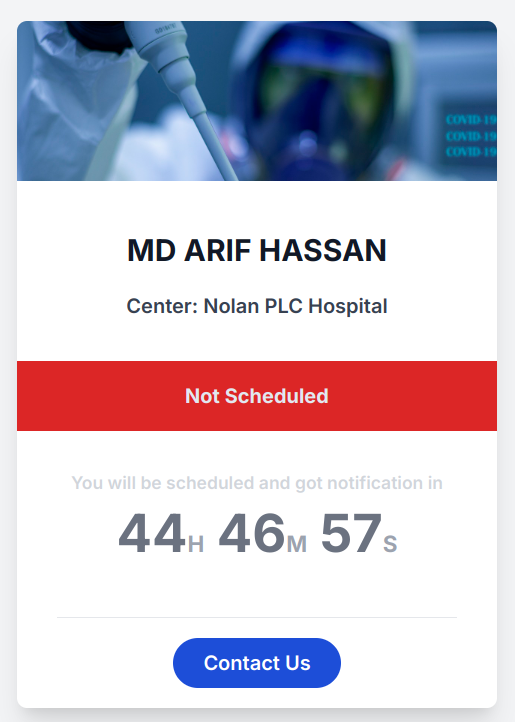
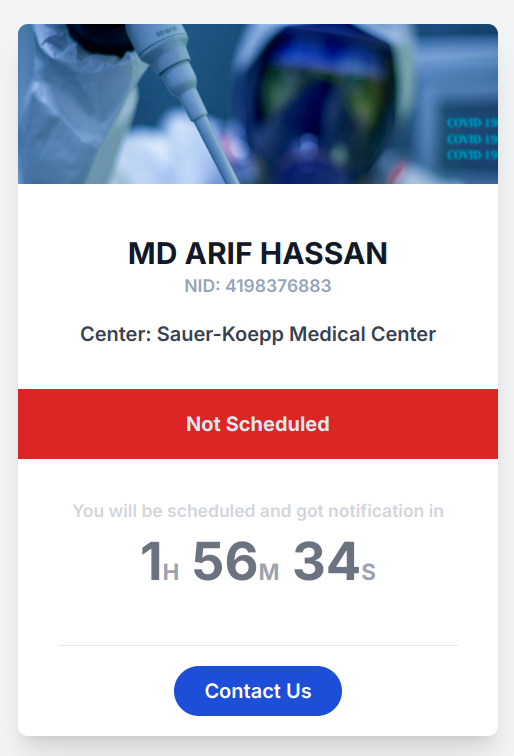
fixed weekends schedules and center limits options

diff --git a/resources/views/home.blade.php b/resources/views/home.blade.php
@@ -11,10 +11,12 @@
         </div>
 
         <div class="text-center mt-2 py-8">
-            <h2 class="font-bold mb-4 text-2xl">{{auth()->user()->name}}</h2>
+            <h2 class="font-bold text-2xl capitalize">{{auth()->user()->name}}</h2>
+            <span class="block font-semibold text-slate-400 text-sm mb-4">NID: {{auth()->user()->nid}}</span>
 
             @if (auth()->user()->status !== \App\Enums\UserStatus::VACCINATED)
                 <h5 class="text-gray-700 font-semibold">Center: {{auth()->user()->VaccineCenter?->name}}</h5>
+
             @endif
 
             <p class="text-slate-200 my-8 py-4 font-bold capitalize {{ auth()->user()->status === \App\Enums\UserStatus::NOT_SCHEDULED ? 'bg-red-600' :
@@ -29,7 +31,7 @@
 
             @elseif (auth()->user()->status === \App\Enums\UserStatus::SCHEDULED)
                 <div class="px-4 font-semibold">Your vaccination is scheduled at <span
-                        class="font-bold">{{auth()->user()->scheduled_date}} </span>. Please
+                        class="font-bold">{{auth()->user()->scheduled_date->toDateString()}}. </span>Please
                     arrive at the center by <span class="font-bold">9:00 AM.</span></div>
 
             @elseif (auth()->user()->status === \App\Enums\UserStatus::VACCINATED)
@@ -39,24 +41,22 @@
         </div>
 
         <div class="p-4 border-t mx-8 mt-2">
-            @if(auth()->user()->status === \App\Enums\UserStatus::SCHEDULED)
-                <button
-                    class=" block mx-auto rounded-full bg-blue-700 hover:shadow-lg font-semibold text-white px-6 py-2">Confim
-                    Vaccination</button>
-            @else
-                <button
-                    class=" block mx-auto rounded-full bg-blue-700 hover:shadow-lg font-semibold text-white px-6 py-2">Contact
-                    Us</button>
-            @endif
-        </div </div>
+            <button
+                class=" block mx-auto rounded-full bg-blue-700 hover:shadow-lg font-semibold text-white px-6 py-2">Contact
+                Us</button>
+        </div>
 @else
-    <div class="p-4 border-t mx-8 text-center">
-        <h3
-            class="w-full text-cente block mx-auto rounded-full bg-blue-700 hover:shadow-lg font-semibold text-white px-6 py-4">
-            Vaccine
-            Registration Center
-        </h3>
+    <div class="text-center mt-40">
+        <h1 class="text-4xl font-bold text-gray-800">Welcome to Our Vaccination Portal</h1>
+        <p class="text-gray-600 mt-4">Manage your vaccination schedule, track appointments, and stay updated.</p>
+        <div class="mt-6">
+            <a href="{{ route('login') }}"
+                class="px-6 py-3 bg-blue-500 text-white rounded shadow hover:bg-blue-600">Login</a>
+            <a href="{{ route('registration') }}"
+                class="ml-4 px-6 py-3 bg-gray-300 text-gray-800 rounded shadow hover:bg-gray-400">Register</a>
+        </div>
     </div>
+
 @endif
     <script>
         document.addEventListener('DOMContentLoaded', function () {

diff --git a/app/Jobs/ProcessVaccinationSchedule.php b/app/Jobs/ProcessVaccinationSchedule.php
@@ -51,18 +51,44 @@ class ProcessVaccinationSchedule implements ShouldQueue
                 ->get();
 
             foreach ($users as $user) {
-                $scheduledDate = Carbon::now()->addDays(1)->toDateString();
+                $scheduledDate = $this->findNextAvailableDate($center);
 
                 $user->update([
                     'status' => UserStatus::SCHEDULED,
                     'scheduled_date' => $scheduledDate,
                 ]);
 
-                Log::info("User scheduled: {$user->email}, scheduled_date: {$user->scheduled_date}");
+                Log::info("User scheduled: {$user->email}, scheduled_date: {$user->scheduled_date->toDateString()}");
 
                 // Dispatch the email job
-                SendVaccinationEmail::dispatch($user);
+                SendVaccinationEmail::dispatch($user)->delay(Carbon::now()->addSeconds(5));
             }
         });
+    }
+
+    protected function findNextAvailableDate(VaccineCenter $center): string
+    {
+        $date = Carbon::now()->addDays(); // Start from tomorrow
+
+        while (true) {
+            // is weekends
+            if ($date->isWeekend()) {
+                $date->addDay();
+
+                continue;
+            }
+
+            // Check if there are already enough users scheduled for the current day
+            $usersScheduled = User::where('vaccine_center_id', $center->id)
+                ->whereDate('scheduled_date', $date)
+                ->count();
+
+            if ($usersScheduled < $center->daily_capacity) {
+                return $date->toDateString();
+            }
+
+            $date->addDay(); // Move to the next day
+        }
+
     }
 }

diff --git a/app/Filament/Resources/VaccineCenterResource.php b/app/Filament/Resources/VaccineCenterResource.php
@@ -3,15 +3,11 @@
 namespace App\Filament\Resources;
 
 use App\Filament\Resources\VaccineCenterResource\Pages;
-use App\Filament\Resources\VaccineCenterResource\RelationManagers;
 use App\Models\VaccineCenter;
-use Filament\Forms;
 use Filament\Forms\Form;
 use Filament\Resources\Resource;
 use Filament\Tables;
 use Filament\Tables\Table;
-use Illuminate\Database\Eloquent\Builder;
-use Illuminate\Database\Eloquent\SoftDeletingScope;
 
 class VaccineCenterResource extends Resource
 {
@@ -47,8 +43,8 @@ class VaccineCenterResource extends Resource
                     Tables\Actions\DeleteBulkAction::make(),
                 ]),
             ])->emptyStateActions([
-                    Tables\Actions\CreateAction::make(),
-                ])
+                Tables\Actions\CreateAction::make(),
+            ])
             ->emptyStateActions([
                 Tables\Actions\CreateAction::make(),
             ]);

diff --git a/resources/views/auth/registration.blade.php b/resources/views/auth/registration.blade.php
@@ -64,9 +64,9 @@
             password</label>
     </div>
     <div class="relative z-0 w-full mb-5 group">
-        <select class="p-4 pl-0 bg-gray-100 border border-gray-200 rounded-sm w-full" name="vaccine_center"
-            id="vaccine_center">
-            <option class="text-gray-500 pr-2" value="">Select Vaccine Center</option>
+        <select class="text-gray-500 text-md p-4 pl-0 bg-gray-100 border-b-2 border-gray-300 rounded-sm w-full"
+            name="vaccine_center" id="vaccine_center">
+            <option class=" pr-2" value="">Select Vaccine Center</option>
             @foreach ($vaccine_centers as $vaccine_center)
                 <option class="text-gray-500 py-2 border-b border-gray-200 " value="{{ $vaccine_center->id }}">
                     {{ $vaccine_center->name }}

diff --git a/app/Http/Controllers/UserVaccinationController.php b/app/Http/Controllers/UserVaccinationController.php
@@ -1,0 +1,26 @@
+<?php
+
+namespace App\Http\Controllers;
+
+use App\Enums\UserStatus;
+use App\Models\User;
+
+class UserVaccinationController extends Controller
+{
+    public function confirm(User $user)
+    {
+        if ($user->status === UserStatus::SCHEDULED) {
+            $user->update(['status' => UserStatus::VACCINATED]);
+
+            return response()->json([
+                'success' => true,
+                'message' => 'Vaccination confirmed successfully.',
+            ]);
+        }
+
+        return response()->json([
+            'success' => false,
+            'message' => 'User is not scheduled for vaccination.',
+        ]);
+    }
+}

diff --git a/routes/web.php b/routes/web.php
@@ -3,6 +3,7 @@
 use App\Http\Controllers\Auth\LoginController;
 use App\Http\Controllers\Auth\RegistrationController;
 use App\Http\Controllers\HomeController;
+use App\Http\Controllers\UserVaccinationController;
 use Illuminate\Support\Facades\Route;
 
 Route::middleware(['auth'])->group(function () {
@@ -20,3 +21,5 @@ Route::post('/registration', [RegistrationController::class, 'store']);
 Route::get('/logout', [LoginController::class, 'logout'])->name('logout');
 
 Route::get('/', [HomeController::class, 'index'])->name('home');
+
+Route::post('/vaccination/confim/{user}', [UserVaccinationController::class, 'confirm'])->name('vaccination.confirm');

diff --git a/resources/views/components/header.blade.php b/resources/views/components/header.blade.php
@@ -24,7 +24,7 @@
                 <ul
                     class="flex flex-col p-4 md:p-0 mt-4 font-medium border border-gray-100 rounded-lg bg-gray-50 md:space-x-8 rtl:space-x-reverse md:flex-row md:mt-0 md:border-0 md:bg-white dark:bg-gray-800 md:dark:bg-gray-900 dark:border-gray-700">
                     <li>
-                        <a href="#"
+                        <a href="{{route('home')}}"
                             class="block py-2 px-3 text-white bg-blue-700 rounded md:bg-transparent md:text-blue-700 md:p-0 md:dark:text-blue-500"
                             aria-current="page">Home</a>
                     </li>

diff --git a/database/factories/VaccineCenterFactory.php b/database/factories/VaccineCenterFactory.php
@@ -19,9 +19,9 @@ class VaccineCenterFactory extends Factory
         $centers = ['Hospital', 'Medical Center', 'Clinic', 'Healthcare Center', 'Health Institute', 'Wellness Center', 'Medical Group', 'Health Systems', 'Care Center', 'Health Clinic'];
 
         return [
-            'name' => fake()->company . ' ' . fake()->randomElement($centers),
+            'name' => fake()->company.' '.fake()->randomElement($centers),
             'location' => fake()->address(),
-            'daily_capacity' => fake()->numberBetween(50, 100),
+            'daily_capacity' => fake()->numberBetween(2, 10),
         ];
     }
 }

diff --git a/app/Filament/Resources/UserResource.php b/app/Filament/Resources/UserResource.php
@@ -29,7 +29,7 @@ class UserResource extends Resource
                     ->relationship('VaccineCenter', 'name'),
                 Forms\Components\TextInput::make('password')
                     ->password()
-                    ->dehydrateStateUsing(fn($state) => Hash::make($state))
+                    ->dehydrateStateUsing(fn ($state) => Hash::make($state))
                     ->dehydrated(false),
             ]);
     }

diff --git a/app/Models/User.php b/app/Models/User.php
@@ -71,7 +71,7 @@ class User extends Authenticatable
         }
 
         // avatar url
-        $initials = 'https://ui-avatars.com/api/?name=' . $initials . '&background=fff&color=1d4ed8&font-size=0.35&bold=true';
+        $initials = 'https://ui-avatars.com/api/?name='.$initials.'&background=fff&color=1d4ed8&font-size=0.35&bold=true';
 
         return $initials;
     }

diff --git a/resources/views/components/footer.blade.php b/resources/views/components/footer.blade.php
@@ -1,0 +1,9 @@
+<footer class="mt-12 bg-gray-800 text-white py-6">
+    <div class="text-center">
+        <p>&copy; {{ date('Y') }} Vaccination Portal. All rights reserved.</p>
+        <p class="mt-2">
+            <a href="#" class="underline">Privacy Policy</a> |
+            <a href="#" class="underline">Terms of Service</a>
+        </p>
+    </div>
+</footer>

diff --git a/app/Filament/Resources/VaccineCenterResource/Pages/CreateVaccineCenter.php b/app/Filament/Resources/VaccineCenterResource/Pages/CreateVaccineCenter.php
@@ -3,7 +3,6 @@
 namespace App\Filament\Resources\VaccineCenterResource\Pages;
 
 use App\Filament\Resources\VaccineCenterResource;
-use Filament\Actions;
 use Filament\Resources\Pages\CreateRecord;
 
 class CreateVaccineCenter extends CreateRecord
